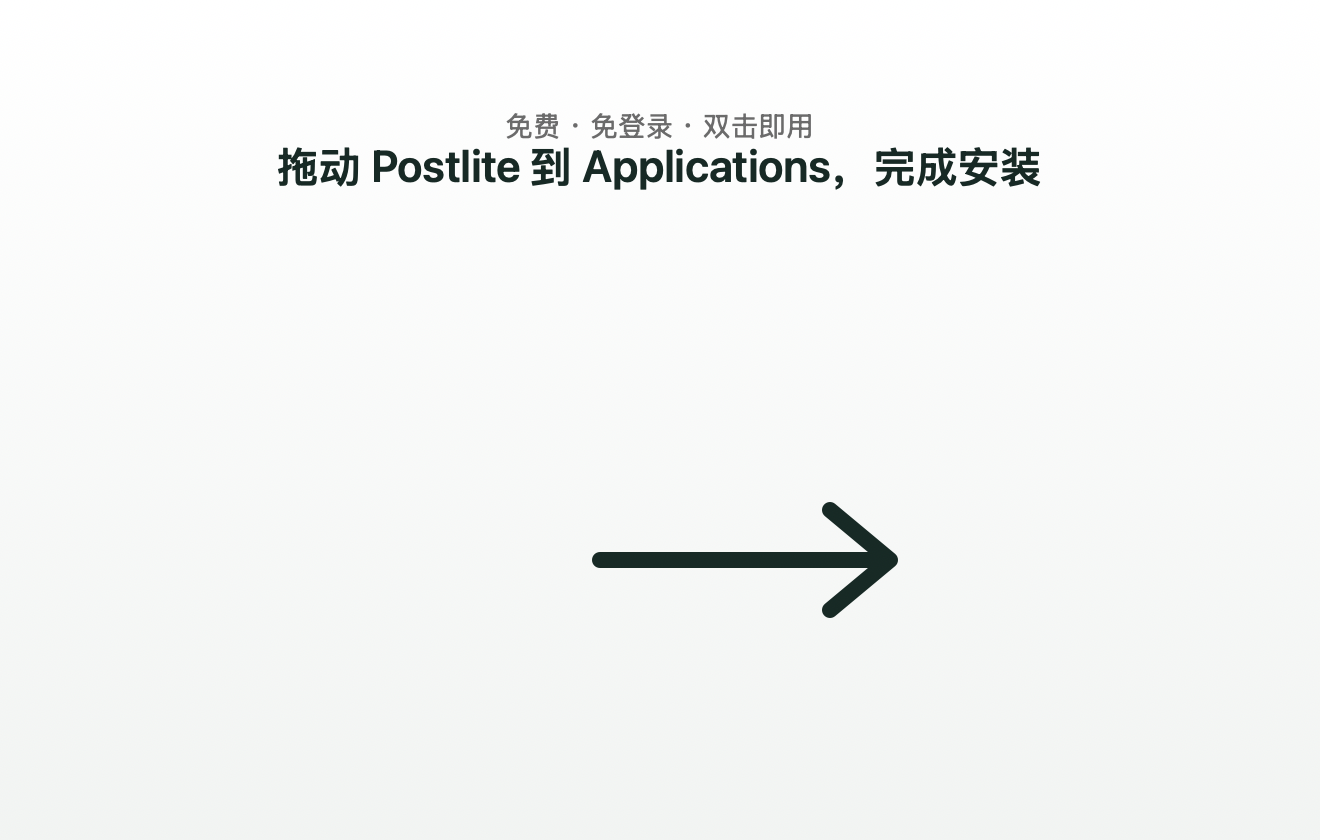
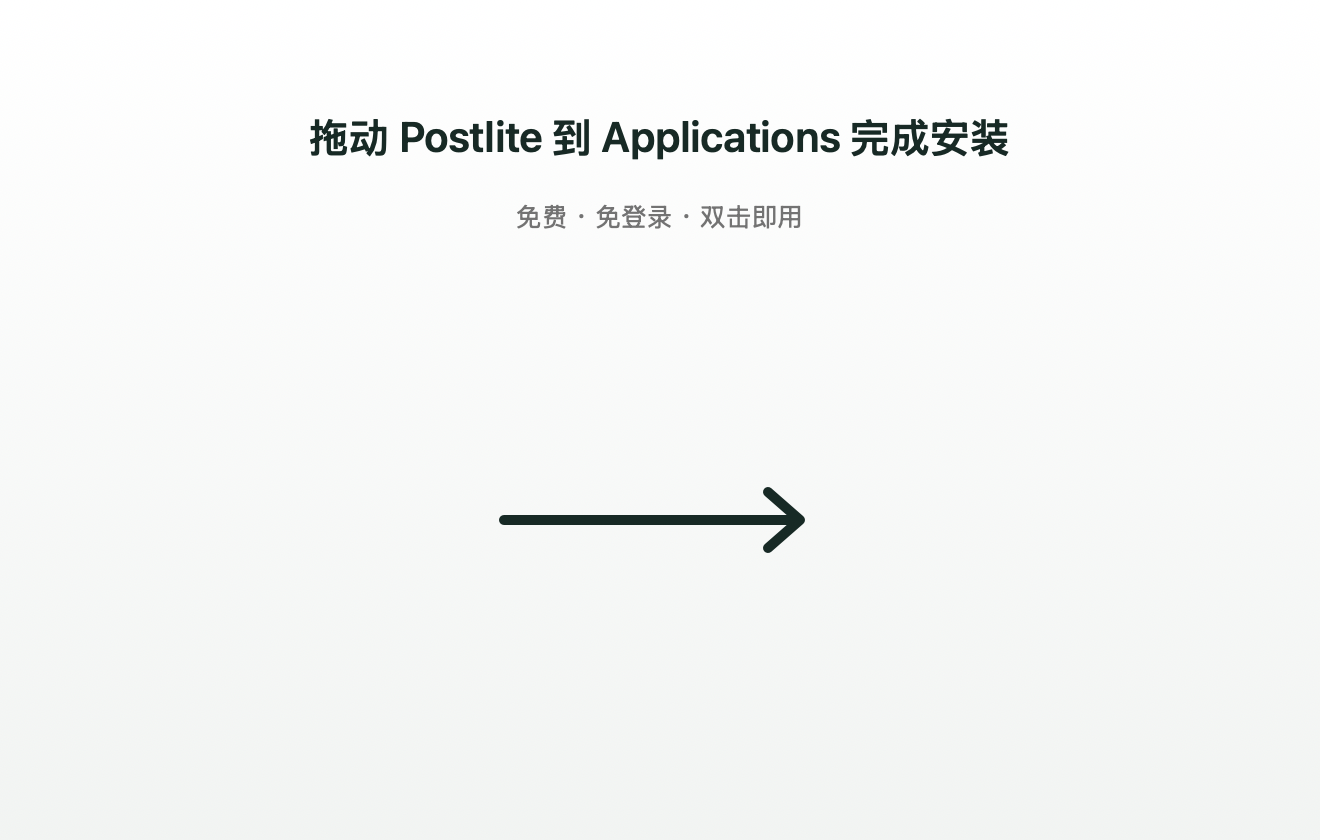
fix: DMG 拖装窗口布局修正——窗口尺寸语义/文案顺序/箭头细节
- 根因：dmgbuild WindowBounds 第二组是「宽高」非右下角坐标，此前窗口 860x540
  而背景 660x420，白边+错位；现 window_rect ((440,240),(660,420)) 与背景 1:1
- 背景图重排：主标题在上、副标题在下（此前绘制基线算反顺序颠倒）；箭头细线
  圆头并按图标中心连线对位（中心 y=260），不再戳 Applications 图标
- dmgbuild 配置补 show_status_bar/show_toolbar/show_pathbar/show_sidebar=False、
  text_size=13；删除走不通的 dmg-layout.applescript（TCC 拒 Finder 自动化）

Changed region(s): [[0.1864, 0.1238, 0.8076, 0.2786], [0.3727, 0.5881, 0.6833, 0.7429]]

diff --git a/scripts/make-dmg-bg.swift b/scripts/make-dmg-bg.swift
@@ -1,5 +1,6 @@
 // scripts/make-dmg-bg.swift
-// 生成 DMG 拖动安装窗口背景图（660x420，brand 主色文字 + 右向箭头）。
+// 生成 DMG 拖动安装窗口背景图（660x420，与 scripts/dmg-settings.py 的 window_rect 1:1）。
+// 布局（窗口顶起算）：标题 56 · 副标题 100 · 图标中心 y=260（dmgbuild 图标定位 (140,210)/(420,210) size=100）
 // 构建：swiftc -O -o build/make-dmg-bg scripts/make-dmg-bg.swift
 // 运行：build/make-dmg-bg <输出.png>
 import AppKit
@@ -22,40 +23,43 @@ let brand = NSColor(red: 0.067, green: 0.165, blue: 0.145, alpha: 1) // #112A25
 let para = NSMutableParagraphStyle()
 para.alignment = .center
 
-// 主文案 + 副文案（窗口顶部居中）
-("拖动 Postlite 到 Applications，完成安装" as NSString).draw(
-    in: NSRect(x: 0, y: h - 110, width: w, height: 40),
+// 主标题（窗口顶 56pt 起）
+("拖动 Postlite 到 Applications 完成安装" as NSString).draw(
+    in: NSRect(x: 0, y: h - 56 - 36, width: w, height: 36),
     withAttributes: [
-        .font: NSFont.systemFont(ofSize: 22, weight: .semibold),
+        .font: NSFont.systemFont(ofSize: 21, weight: .semibold),
         .foregroundColor: brand,
         .paragraphStyle: para,
     ]
 )
+// 副标题（紧跟标题下方，顺序：标题在上、副标题在下）
 ("免费 · 免登录 · 双击即用" as NSString).draw(
-    in: NSRect(x: 0, y: h - 80, width: w, height: 26),
+    in: NSRect(x: 0, y: h - 100 - 22, width: w, height: 22),
     withAttributes: [
-        .font: NSFont.systemFont(ofSize: 14),
-        .foregroundColor: NSColor(white: 0.42, alpha: 1),
+        .font: NSFont.systemFont(ofSize: 13),
+        .foregroundColor: NSColor(white: 0.45, alpha: 1),
         .paragraphStyle: para,
     ]
 )
 
-// 右向箭头（app 图标与 Applications 图标之间，窗口 y≈280 处）
-let line = NSBezierPath()
-line.lineWidth = 8
-line.lineCapStyle = .round
-line.move(to: NSPoint(x: 300, y: 140))
-line.line(to: NSPoint(x: 440, y: 140))
+// 右向箭头：细线圆头，位于两图标中心连线上（AppKit y = 420-260 = 160），
+// 避开左右图标（左图标右缘 240、右图标左缘 420）
+let arrow = NSBezierPath()
+arrow.lineWidth = 5
+arrow.lineCapStyle = .round
+arrow.lineJoinStyle = .round
+arrow.move(to: NSPoint(x: 252, y: 160))
+arrow.line(to: NSPoint(x: 398, y: 160))
 brand.setStroke()
-line.stroke()
+arrow.stroke()
 
 let head = NSBezierPath()
-head.lineWidth = 8
+head.lineWidth = 5
 head.lineCapStyle = .round
 head.lineJoinStyle = .round
-head.move(to: NSPoint(x: 415, y: 165))
-head.line(to: NSPoint(x: 445, y: 140))
-head.line(to: NSPoint(x: 415, y: 115))
+head.move(to: NSPoint(x: 384, y: 174))
+head.line(to: NSPoint(x: 400, y: 160))
+head.line(to: NSPoint(x: 384, y: 146))
 head.stroke()
 
 img.unlockFocus()

diff --git a/scripts/dmg-settings.py b/scripts/dmg-settings.py
@@ -1,6 +1,6 @@
 # scripts/dmg-settings.py
-# dmgbuild 配置：Postlite 拖动安装窗口（背景图 + 双图标定位 + 隐藏工具栏）。
-# 由 make release 调用：build/venv/bin/dmgbuild -s scripts/dmg-settings.py -v Postlite <out.dmg>
+# dmgbuild 配置：Postlite 拖动安装窗口（背景图 + 双图标定位 + 隐藏状态栏/工具栏）。
+# 由 make release 调用：build/venv/bin/dmgbuild -s scripts/dmg-settings.py "Postlite" <out.dmg>
 
 app_path = 'dist/Postlite.app'
 
@@ -13,11 +13,20 @@ symlinks = {'Applications': '/Applications'}
 # 品牌背景（scripts/make-dmg-bg.swift 生成，660x420）
 background = 'build/dmg-bg.png'
 
-# 窗口与图标布局（scripts/dmg-layout.applescript 同款坐标）
-window_rect = ((200, 120), (860, 540))
+# WindowBounds 语义为 {{左, 下}, {宽, 高}}：窗口 660x420 与背景图 1:1，不出白边
+window_rect = ((440, 240), (660, 420))
+
 default_view = 'icon-view'
 icon_size = 100
+text_size = 13
+show_status_bar = False
+show_toolbar = False
+show_tab_view = False
+show_pathbar = False
+show_sidebar = False
+
+# 图标定位（top-left 坐标，size=100 → 中心 y=260，与背景箭头对齐）
 icon_locations = {
-    'Postlite.app': (170, 230),
-    'Applications': (490, 230),
+    'Postlite.app': (140, 210),
+    'Applications': (420, 210),
 }
